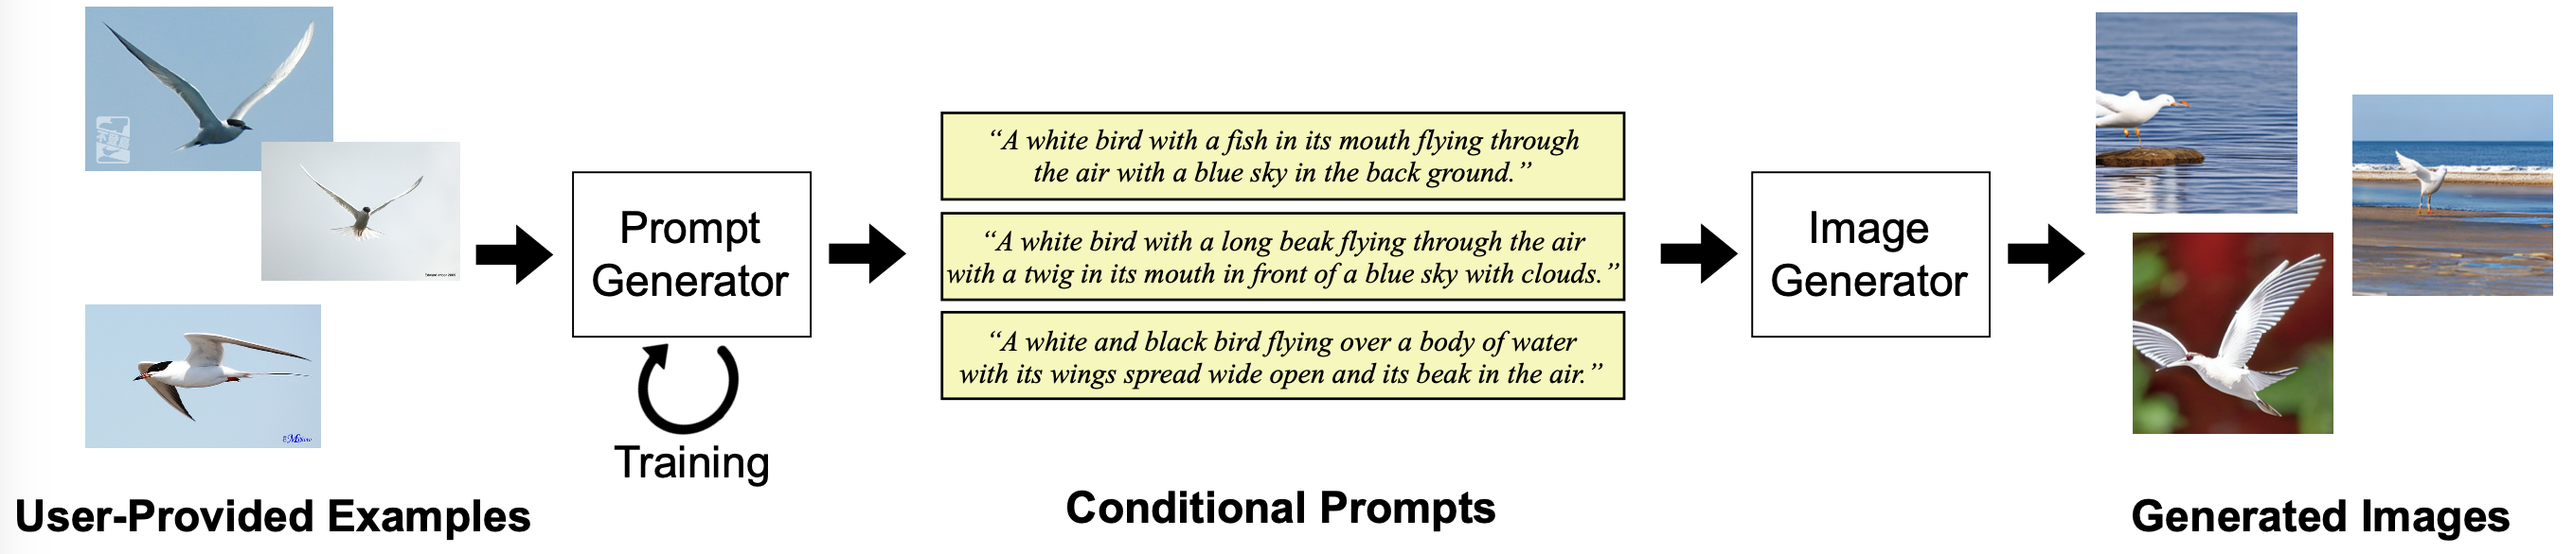
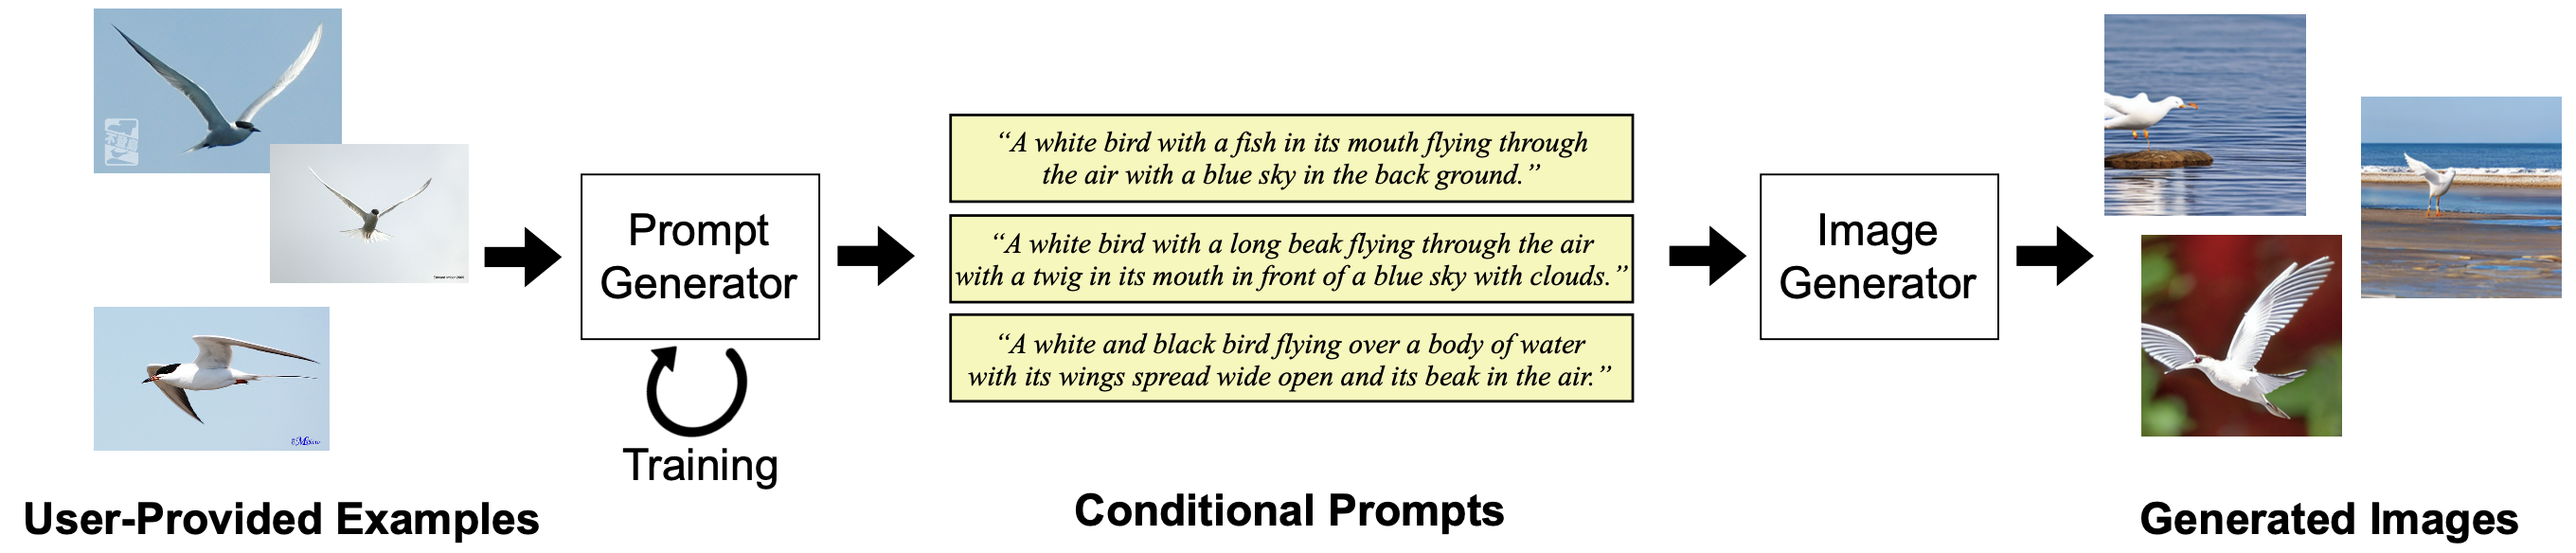
image replaced

diff --git a/_projects/projects-6.md b/_projects/projects-6.md
@@ -4,7 +4,7 @@ excerpt: "Atsushi Takada, <u><b>Wataru Kawabe</b></u>, and Yusuke Sugano<br/>IEE
 collection: projects
 ---
 
-<img src='/images/projects-6.pdf'>
+<img src='/images/projects-6.png'>
 
 doi (to be appeared)
 
